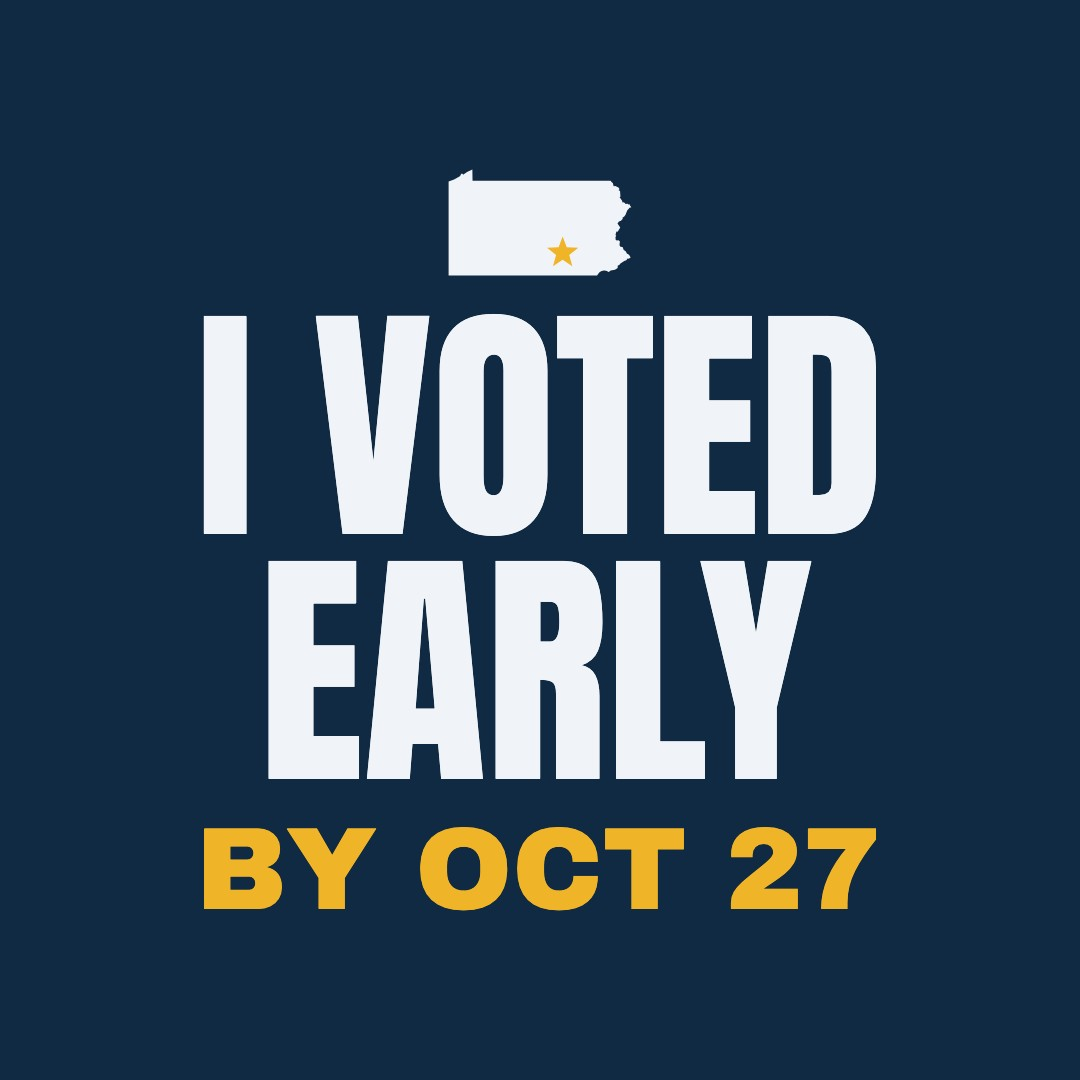
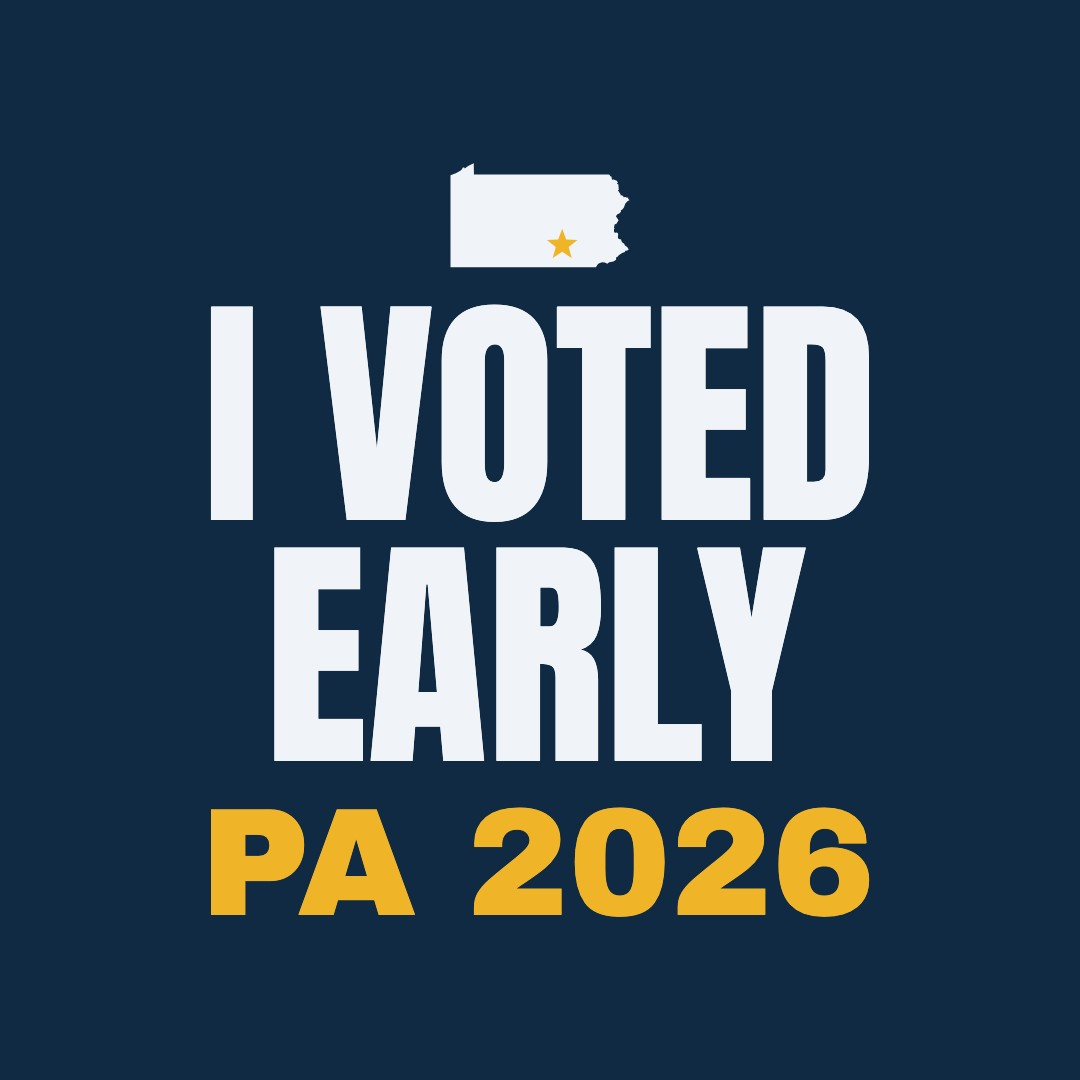
Early voting date lines say THROUGH, past-tense stickers name the state; election prep loop file
Claude-Session: https://claude.ai/code/session_01U4jJBSt3CnGjJYrtPzNn5q

Changed region(s): [[0.1833, 0.1528, 0.825, 0.8556], [0.1833, 0.275, 0.2444, 0.5194], [0.3667, 0.55, 0.3972, 0.5806]]

diff --git a/site/states.js b/site/states.js
@@ -25,11 +25,11 @@ window.VOTE_STATES = [
 	{"abbr": "FL", "name": "Florida", "status": "verified", "kind": "in-person", "start": "2026-10-24", "end": "2026-10-31", "varies": true, "note": "Every county offers October 24 to 31. Your county may add more days; check with your Supervisor of Elections.", "officialUrl": "https://dos.fl.gov/elections/for-voters/voting/early-voting-and-secure-ballot-intake-stations/", "officialLabel": "dos.fl.gov", "sourceUrl": "https://dos.fl.gov/elections/for-voters/election-dates/", "checked": "2026-10-19"},
 	{"abbr": "GA", "name": "Georgia", "status": "verified", "kind": "in-person", "start": "2026-10-13", "end": "2026-10-30", "varies": false, "officialUrl": "https://mvp.sos.ga.gov/s/", "officialLabel": "sos.ga.gov", "sourceUrl": "https://sos.ga.gov/news/georgia-debuts-new-i-voted-sticker-2026-midterm-elections", "checked": "2026-10-21", "note": "Vote at any early voting site in your county. Hours vary by site; My Voter Page lists them."},
 	{"abbr": "HI", "name": "Hawaii", "status": "verified", "kind": "mail", "start": "2026-10-16", "end": "2026-11-03", "varies": false, "note": "Ballots arrive by October 16. They must be received by 7 p.m. on Election Day, so mail early or use a drop box.", "officialUrl": "https://elections.hawaii.gov/voting/", "officialLabel": "elections.hawaii.gov", "sourceUrl": "https://elections.hawaii.gov/news-release/hawaii-voters-to-receive-general-election-ballots-by-october-16/", "checked": "2026-10-19", "ribbon": "RECEIVED BY 7 P.M. NOV 3", "dateLineMail": "BY 7 PM NOV 3"},
-	{"abbr": "ID", "name": "Idaho", "status": "verified", "kind": "in-person", "end": "2026-10-30", "varies": true, "dateLine": "BY OCT 30", "summary": "Early voting is open in every Idaho county through Friday, October 30.", "note": "Days and hours differ by county; find yours on VoteIdaho.gov.", "officialUrl": "https://voteidaho.gov/casting-your-ballot/", "officialLabel": "voteidaho.gov", "sourceUrl": "https://voteidaho.gov/casting-your-ballot/", "checked": "2026-10-19"},
+	{"abbr": "ID", "name": "Idaho", "status": "verified", "kind": "in-person", "end": "2026-10-30", "varies": true, "dateLine": "THROUGH OCT 30", "summary": "Early voting is open in every Idaho county through Friday, October 30.", "note": "Days and hours differ by county; find yours on VoteIdaho.gov.", "officialUrl": "https://voteidaho.gov/casting-your-ballot/", "officialLabel": "voteidaho.gov", "sourceUrl": "https://voteidaho.gov/casting-your-ballot/", "checked": "2026-10-19"},
 	{"abbr": "IL", "name": "Illinois", "status": "verified", "kind": "in-person", "start": "2026-09-24", "end": "2026-11-02", "varies": false, "note": "Early voting is open at your election authority's office now; more permanent sites open October 19. Your county or city election authority lists sites and hours.", "officialUrl": "https://www.elections.il.gov/", "officialLabel": "elections.il.gov", "sourceUrl": "https://www.elections.il.gov/NewDocDisplay.aspx?%2fM0cs48zOKVZyk9eAbpEoxjoGz9b5YaGE%2bEuf7JVd2Tlx2Mybp2RbacEJVh848tnFOLoTd3G4cRsCxSj%2bcrL1MmhG9QsYgJ9OQfN8tD1KknCt4vGDLyf%2beCKsyu7xmW0lAxDBpXvp%2bNIr4wjxV9GPBgF6J94lGLth4owFgdUkow%3d", "checked": "2026-10-21"},
 	{"abbr": "IN", "name": "Indiana", "status": "verified", "kind": "in-person", "start": "2026-10-06", "end": "2026-11-02", "varies": false, "note": "Vote early at your county clerk's office or a satellite site. It ends at noon Monday, November 2, and counties set days and hours.", "officialUrl": "https://www.in.gov/sos/elections/", "officialLabel": "in.gov", "sourceUrl": "https://www.in.gov/dA/a5aa6862f1/2026-Calendar-Brochure.FINAL-VERSION.pdf", "checked": "2026-10-21"},
 	{"abbr": "IA", "name": "Iowa", "status": "verified", "kind": "in-person", "start": "2026-10-14", "end": "2026-11-02", "varies": false, "note": "Vote absentee in person at your county auditor's office.", "officialUrl": "https://sos.iowa.gov/elections/auditors/auditorslist.html", "officialLabel": "sos.iowa.gov", "sourceUrl": "https://sos.iowa.gov/news-resources/secretary-pate-encourages-iowans-make-plan-vote-2026-general-election", "checked": "2026-10-19"},
-	{"abbr": "KS", "name": "Kansas", "status": "verified", "kind": "in-person", "start": "2026-10-14", "end": "2026-11-02", "varies": true, "dateLine": "BY NOV 2", "summary": "Kansas counties start early voting between October 14 and 27. It ends at noon Monday, November 2.", "note": "Check your county election office for its start date, hours, and locations.", "officialUrl": "https://sos.ks.gov/elections/advance-voting-information.html", "officialLabel": "sos.ks.gov", "sourceUrl": "https://sos.ks.gov/elections/important-election-dates.html", "checked": "2026-10-19"},
+	{"abbr": "KS", "name": "Kansas", "status": "verified", "kind": "in-person", "start": "2026-10-14", "end": "2026-11-02", "varies": true, "dateLine": "THROUGH NOV 2", "summary": "Kansas counties start early voting between October 14 and 27. It ends at noon Monday, November 2.", "note": "Check your county election office for its start date, hours, and locations.", "officialUrl": "https://sos.ks.gov/elections/advance-voting-information.html", "officialLabel": "sos.ks.gov", "sourceUrl": "https://sos.ks.gov/elections/important-election-dates.html", "checked": "2026-10-19"},
 	{"abbr": "KY", "name": "Kentucky", "status": "verified", "kind": "in-person", "start": "2026-10-29", "end": "2026-10-31", "varies": false, "note": "No-excuse early voting is Thursday to Saturday. Each county sets its hours and locations.", "officialUrl": "https://elect.ky.gov/Voters/Pages/Voting-In-Person-and-By-Mail.aspx", "officialLabel": "elect.ky.gov", "sourceUrl": "https://elect.ky.gov/Voters/Pages/Voting-In-Person-and-By-Mail.aspx", "checked": "2026-10-21"},
 	{"abbr": "LA", "name": "Louisiana", "status": "verified", "kind": "in-person", "start": "2026-10-20", "end": "2026-10-27", "varies": false, "note": "8:30 a.m. to 6 p.m., no early voting Sunday, October 25.", "officialUrl": "https://www.sos.la.gov/ElectionsAndVoting/Pages/default.aspx", "officialLabel": "sos.la.gov", "sourceUrl": "https://www.sos.la.gov/elections-voting/election-dates", "checked": "2026-10-21"},
 	{"abbr": "ME", "name": "Maine", "status": "verified", "kind": "in-person", "start": "2026-10-05", "end": "2026-10-29", "varies": false, "summary": "In Maine, you can vote an absentee ballot in person at your town or city clerk's office, for any reason, from Monday, October 5, through Thursday, October 29.", "note": "No application needed. Hours are your clerk's office hours, which each town sets.", "officialUrl": "https://www.maine.gov/sos/elections-voting/find-a-municipal-clerk-or-registrar", "officialLabel": "maine.gov", "sourceUrl": "https://www.maine.gov/sos/news/person-no-excuse-absentee-voting-underway-maine", "checked": "2026-10-23"},
@@ -47,18 +47,18 @@ window.VOTE_STATES = [
 	{"abbr": "NM", "name": "New Mexico", "status": "verified", "kind": "in-person", "start": "2026-10-06", "end": "2026-10-31", "varies": false, "note": "Early voting starts at county clerk offices. More sites open across the state on October 17.", "officialUrl": "https://www.sos.nm.gov/voting-and-elections/", "officialLabel": "sos.nm.gov", "sourceUrl": "https://www.sos.nm.gov/wp-content/uploads/2026/06/2026-Important-General-Election-Dates.pdf", "checked": "2026-10-21"},
 	{"abbr": "NY", "name": "New York", "status": "verified", "kind": "in-person", "start": "2026-10-24", "end": "2026-11-01", "varies": false, "note": "Early voting sites and hours are set by your county board of elections.", "officialUrl": "https://elections.ny.gov/early-voting", "officialLabel": "elections.ny.gov", "sourceUrl": "https://elections.ny.gov/early-voting", "checked": "2026-10-19"},
 	{"abbr": "NC", "name": "North Carolina", "status": "verified", "kind": "in-person", "start": "2026-10-15", "end": "2026-10-31", "varies": false, "note": "Early voting ends at 3 p.m. on Saturday, October 31. Vote at any early voting site in your county.", "officialUrl": "https://www.ncsbe.gov/voting/vote-early-person", "officialLabel": "ncsbe.gov", "sourceUrl": "https://www.ncsbe.gov/voting/vote-early-person", "checked": "2026-10-19"},
-	{"abbr": "ND", "name": "North Dakota", "status": "verified", "kind": "in-person", "end": "2026-11-02", "varies": true, "dateLine": "BY NOV 2", "summary": "In North Dakota, each county decides whether to offer early voting. For this election, Burleigh, Cass, Grand Forks, Morton, Stark, Stutsman and Ward counties do.", "note": "A county can open early voting up to 15 days before Election Day. The Secretary of State's precinct page lists each county's dates, sites and hours. Bring a valid ID.", "officialUrl": "https://vip.sos.nd.gov/Precincts.aspx?eid=348", "officialLabel": "vip.sos.nd.gov", "sourceUrl": "https://www.sos.nd.gov/sites/default/files/documents/news/2026-general-election-media-info-aug26.pdf", "checked": "2026-10-25"},
+	{"abbr": "ND", "name": "North Dakota", "status": "verified", "kind": "in-person", "end": "2026-11-02", "varies": true, "dateLine": "THROUGH NOV 2", "summary": "In North Dakota, each county decides whether to offer early voting. For this election, Burleigh, Cass, Grand Forks, Morton, Stark, Stutsman and Ward counties do.", "note": "A county can open early voting up to 15 days before Election Day. The Secretary of State's precinct page lists each county's dates, sites and hours. Bring a valid ID.", "officialUrl": "https://vip.sos.nd.gov/Precincts.aspx?eid=348", "officialLabel": "vip.sos.nd.gov", "sourceUrl": "https://www.sos.nd.gov/sites/default/files/documents/news/2026-general-election-media-info-aug26.pdf", "checked": "2026-10-25"},
 	{"abbr": "OH", "name": "Ohio", "status": "verified", "kind": "in-person", "start": "2026-10-06", "end": "2026-11-01", "varies": false, "note": "Vote early at your county board of elections or its early vote center. Hours are the same statewide.", "officialUrl": "https://www.ohiosos.gov/elections/voters/", "officialLabel": "ohiosos.gov", "sourceUrl": "https://www.ohiosos.gov/elections/voting-schedule-text-only", "checked": "2026-10-21"},
 	{"abbr": "OK", "name": "Oklahoma", "status": "verified", "kind": "in-person", "start": "2026-10-28", "end": "2026-10-31", "varies": false, "note": "Wednesday to Friday 8 a.m. to 6 p.m., Saturday 8 a.m. to 2 p.m., in the county where you are registered.", "officialUrl": "https://oklahoma.gov/elections/voters/early-voting.html", "officialLabel": "oklahoma.gov/elections", "sourceUrl": "https://oklahoma.gov/elections/elections-results/next-election/voter-information-calendar.html", "checked": "2026-10-21"},
 	{"abbr": "OR", "name": "Oregon", "status": "verified", "kind": "mail", "start": "2026-10-14", "end": "2026-11-03", "varies": false, "note": "Ballots go out starting October 14. Mail yours by October 27 to be safe, or use a drop box by 8 p.m. on Election Day.", "officialUrl": "https://sos.oregon.gov/elections/pages/current-election.aspx", "officialLabel": "sos.oregon.gov", "sourceUrl": "https://sos.oregon.gov/elections/pages/current-election.aspx", "checked": "2026-10-19", "ribbon": "DROP BOX BY 8 P.M. NOV 3", "dateLineMail": "BY 8 PM NOV 3"},
-	{"abbr": "PA", "name": "Pennsylvania", "status": "verified", "kind": "in-person", "end": "2026-10-27", "varies": true, "dateLine": "BY OCT 27", "summary": "In Pennsylvania you can request, fill out, and return a mail ballot in one visit to your county election office until 5 p.m. Tuesday, October 27.", "note": "This in-person mail ballot is how Pennsylvania voters vote early.", "officialUrl": "https://www.pa.gov/agencies/vote/voter-support/mail-in-and-absentee-ballot/mail-ballot-before-election-day", "officialLabel": "pa.gov", "sourceUrl": "https://www.pa.gov/agencies/vote/voter-support/mail-in-and-absentee-ballot/mail-ballot-before-election-day", "checked": "2026-10-19"},
+	{"abbr": "PA", "name": "Pennsylvania", "status": "verified", "kind": "in-person", "end": "2026-10-27", "varies": true, "dateLine": "THROUGH OCT 27", "summary": "In Pennsylvania you can request, fill out, and return a mail ballot in one visit to your county election office until 5 p.m. Tuesday, October 27.", "note": "This in-person mail ballot is how Pennsylvania voters vote early.", "officialUrl": "https://www.pa.gov/agencies/vote/voter-support/mail-in-and-absentee-ballot/mail-ballot-before-election-day", "officialLabel": "pa.gov", "sourceUrl": "https://www.pa.gov/agencies/vote/voter-support/mail-in-and-absentee-ballot/mail-ballot-before-election-day", "checked": "2026-10-19"},
 	{"abbr": "RI", "name": "Rhode Island", "status": "verified", "kind": "in-person", "start": "2026-10-14", "end": "2026-11-02", "varies": false, "note": "Vote at your city or town hall, or a designated location, during regular business hours.", "officialUrl": "https://vote.sos.ri.gov/Voter/PersonVotingPage", "officialLabel": "vote.sos.ri.gov", "sourceUrl": "https://vote.sos.ri.gov/Voter/PersonVotingPage", "checked": "2026-10-19"},
 	{"abbr": "SC", "name": "South Carolina", "status": "verified", "kind": "in-person", "start": "2026-10-19", "end": "2026-10-31", "varies": false, "note": "8:30 a.m. to 6 p.m., Monday to Saturday; closed Sunday, October 25. Vote at any early voting center in your county.", "officialUrl": "https://scvotes.gov/voters/early-voting/", "officialLabel": "scvotes.gov", "sourceUrl": "https://scvotes.gov/voters/early-voting/", "checked": "2026-10-23"},
 	{"abbr": "SD", "name": "South Dakota", "status": "verified", "kind": "in-person", "start": "2026-09-18", "end": "2026-11-02", "varies": false, "summary": "In South Dakota, any registered voter can vote an absentee ballot in person at the county auditor's office, from Friday, September 18, through Monday, November 2.", "note": "On November 2, the office is open until 5 p.m. or its regular closing time, whichever is later.", "officialUrl": "https://sdsos.gov/elections-voting/voting/absentee-voting.aspx", "officialLabel": "sdsos.gov", "sourceUrl": "https://sdsos.gov/elections-voting/upcoming-elections/general-information/2026%20Election%20Information/2026%20Election%20Assets/Election%20Information/updated2026electioncalendar.pdf", "checked": "2026-10-23"},
 	{"abbr": "TN", "name": "Tennessee", "status": "verified", "kind": "in-person", "start": "2026-10-14", "end": "2026-10-29", "varies": false, "note": "Each county sets its early voting sites and hours. Check your county election commission.", "officialUrl": "https://sos.tn.gov/govotetn", "officialLabel": "sos.tn.gov", "sourceUrl": "https://sos.tn.gov/elections/calendar", "checked": "2026-10-21"},
 	{"abbr": "TX", "name": "Texas", "status": "verified", "kind": "in-person", "start": "2026-10-19", "end": "2026-10-30", "varies": false, "officialUrl": "https://www.votetexas.gov/voting/where.html", "officialLabel": "votetexas.gov", "sourceUrl": "https://www.sos.state.tx.us/elections/voter/important-election-dates.shtml", "checked": "2026-10-19", "note": "Vote at any early voting location in the county where you are registered."},
 	{"abbr": "UT", "name": "Utah", "status": "verified", "kind": "in-person", "start": "2026-10-20", "end": "2026-10-30", "varies": false, "note": "Every county holds early voting; times and locations vary, and a county can extend it through Monday, November 2. Utah also mails every voter a ballot.", "officialUrl": "https://vote.utah.gov/", "officialLabel": "vote.utah.gov", "sourceUrl": "https://vote.utah.gov/wp-content/uploads/2026/01/2026-Candidate-Manual.pdf", "checked": "2026-10-23"},
-	{"abbr": "VT", "name": "Vermont", "status": "verified", "kind": "in-person", "end": "2026-11-02", "varies": true, "dateLine": "BY NOV 2", "summary": "In Vermont, you can vote early at your town or city clerk's office during business hours, until the office closes on Monday, November 2.", "note": "Early voting started 45 days before the election, or as soon as your town had ballots.", "officialUrl": "https://sos.vermont.gov/elections/voters/early-absentee-voting", "officialLabel": "sos.vermont.gov", "sourceUrl": "https://sos.vermont.gov/elections/voters/early-absentee-voting", "checked": "2026-10-23"},
+	{"abbr": "VT", "name": "Vermont", "status": "verified", "kind": "in-person", "end": "2026-11-02", "varies": true, "dateLine": "THROUGH NOV 2", "summary": "In Vermont, you can vote early at your town or city clerk's office during business hours, until the office closes on Monday, November 2.", "note": "Early voting started 45 days before the election, or as soon as your town had ballots.", "officialUrl": "https://sos.vermont.gov/elections/voters/early-absentee-voting", "officialLabel": "sos.vermont.gov", "sourceUrl": "https://sos.vermont.gov/elections/voters/early-absentee-voting", "checked": "2026-10-23"},
 	{"abbr": "VA", "name": "Virginia", "status": "verified", "kind": "in-person", "start": "2026-09-18", "end": "2026-10-31", "varies": false, "note": "Every locality offers early voting. Vote in the locality where you are registered.", "officialUrl": "https://www.elections.virginia.gov/casting-a-ballot/early-voting-office-locations/", "officialLabel": "elections.virginia.gov", "sourceUrl": "https://www.elections.virginia.gov/casting-a-ballot/early-voting-office-locations/", "checked": "2026-10-19"},
 	{"abbr": "WA", "name": "Washington", "status": "verified", "kind": "mail", "start": "2026-10-16", "end": "2026-11-03", "varies": false, "note": "Ballots were mailed by October 16. Return yours by 8 p.m. on Election Day, by mail or drop box.", "officialUrl": "https://www.sos.wa.gov/elections/voters", "officialLabel": "sos.wa.gov", "sourceUrl": "https://www.sos.wa.gov/about-office/news/2026/november-general-election-ballots-mailed-all-eligible-voters-oct-16", "checked": "2026-10-19", "ribbon": "DROP BOX BY 8 P.M. NOV 3", "dateLineMail": "BY 8 PM NOV 3"},
 	{"abbr": "WV", "name": "West Virginia", "status": "verified", "kind": "in-person", "start": "2026-10-21", "end": "2026-10-31", "varies": false, "note": "Vote early at the county courthouse, an annex or a community voting location during business hours, and 9 a.m. to 5 p.m. on the last two Saturdays.", "officialUrl": "https://sos.wv.gov/govotewv", "officialLabel": "sos.wv.gov", "sourceUrl": "https://sos.wv.gov/early-voting-locations", "checked": "2026-10-21"},

diff --git a/site/app.js b/site/app.js
@@ -123,7 +123,7 @@
 		ivoted: { label: 'I voted', lines: ['I VOTED'], stateLine: true },
 		mailed: { mail: true, label: 'I voted by mail', lines: ['I VOTED', 'BY MAIL'], stateLine: true },
 		ballotin: { mail: true, label: 'My ballot is in', lines: ['MY BALLOT', 'IS IN'], stateLine: true },
-		voted: { early: true, label: 'I voted early', lines: ['I VOTED', 'EARLY'] },
+		voted: { early: true, past: true, label: 'I voted early', lines: ['I VOTED', 'EARLY'] },
 		// Spanish (October 19): tú, per the project glossary (docs/spanish-style.md); "Ya voté" is the
 		// everyday Mexican phrasing for "I voted". Date bars
 		// put the day first ("19–30 OCT", "HASTA EL 27 OCT").
@@ -131,7 +131,7 @@
 		votacorreo: { mail: true, es: true, label: 'Vota por correo (español)', lines: ['VOTA', 'POR CORREO'] },
 		vota3nov: { dated: true, es: true, label: 'Vota 3 de nov (español)', lines: ['VOTA', '3 DE NOV'] },
 		yavote: { es: true, label: 'Ya voté (español)', lines: ['YA VOTÉ'], stateLine: true },
-		yavotetemprano: { early: true, es: true, label: 'Ya voté temprano (español)', lines: ['YA VOTÉ', 'TEMPRANO'] },
+		yavotetemprano: { early: true, past: true, es: true, label: 'Ya voté temprano (español)', lines: ['YA VOTÉ', 'TEMPRANO'] },
 		yavotecorreo: { mail: true, es: true, label: 'Ya voté por correo (español)', lines: ['YA VOTÉ', 'POR CORREO'], stateLine: true },
 		voyavotar: { es: true, label: 'Voy a votar (español)', lines: ['VOY A', 'VOTAR'], stateLine: true },
 	};
@@ -209,10 +209,13 @@
 	// date (VOTE NOV 3) gets ELECTION DAY under it.
 	function defaultDateLine(st, headline) {
 		var hd = headline && HEADLINES[headline];
-		if (hd && hd.es && !hd.stateLine) { return spanishDateLine(st, hd); }
+		// "I voted early, through Oct 27" doesn't read: past-tense messages name the state when the state's date
+		// is only a deadline (PA, KS; October 25).
+		var stateLine = hd && (hd.stateLine || (hd.past && /^THROUGH /.test(st.dateLine || '')));
+		if (hd && hd.es && !stateLine) { return spanishDateLine(st, hd); }
 		if (hd && hd.dated) { return 'ELECTION DAY'; }
 		// Short enough to read in a thumbnail: the name up to 10 letters, else the postal code (NC 2026).
-		if (headline && HEADLINES[headline] && HEADLINES[headline].stateLine) { var nm = HEADLINES[headline].es ? nameOf(st) : st.name; return (nm.length <= 10 ? nm.toUpperCase() : st.abbr) + ' ' + ELECTION.day.slice(0, 4); }
+		if (stateLine) { var nm = hd.es ? nameOf(st) : st.name; return (nm.length <= 10 ? nm.toUpperCase() : st.abbr) + ' ' + ELECTION.day.slice(0, 4); }
 		if (!hasEarly(st)) { return electionLine(); }
 		if (st.dateLine) { return st.dateLine; }
 		if (st.kind === 'mail') { return st.dateLineMail || 'DUE ' + shortDate(day(st.end)); }
@@ -226,7 +229,7 @@
 	function spanishDateLine(st, hd) {
 		if (hd.dated || !hasEarly(st)) { return 'DÍA DE LAS ELECCIONES'; }
 		if (st.kind === 'mail') { return 'HASTA EL ' + day(st.end).getDate() + ' ' + mes(day(st.end)); }
-		var by = /^BY ([A-Z]{3}) (\d+)$/.exec(st.dateLine || '');
+		var by = /^THROUGH ([A-Z]{3}) (\d+)$/.exec(st.dateLine || '');
 		if (by) { return 'HASTA EL ' + by[2] + ' ' + (MESES[by[1]] || by[1]); }
 		if (!st.start || !st.end) { return 'DÍA DE LAS ELECCIONES'; }
 		var a = day(st.start), b = day(st.end);

diff --git a/docs/LOOP-election-prep.md b/docs/LOOP-election-prep.md
@@ -1,0 +1,60 @@
+# Loop: Election Week and After
+
+Started October 25, 2026, at Garrett's request: prepare for November 2, November 4 and the months
+after, then keep working the backlog in order of value to visitors. One item per pass. Log each pass
+at the bottom with the date, what changed, and what's next.
+
+**Goal of every item:** a voter who lands on a page gets something true and useful for that day:
+the right sticker, the right dates, the official link. Nothing expired, nothing invented.
+
+**Rules for the loop**
+- Push to main two or three times a day at most; a push is a deploy at the next build (or now, with
+  `wrangler pages deploy`). Run facts, SEO, Spanish (`--base` local), card and event QA first.
+- Facts only from official sources; anything uncertain stays off the page and goes to Open Fact Calls.
+- No DNS or Cloudflare changes, social posts or outreach without Garrett's OK.
+- No Firecrawl; use WebSearch, WebFetch or Claude in Chrome.
+- Spanish strings follow `docs/spanish-style.md`.
+
+## Before November 2
+
+| # | Item | Status |
+|---|---|---|
+| 1 | PA and KS "I voted early" stickers: replace the "BY" date line with the state name | Done Oct 25 |
+| 2 | Previews of the Nov 2 and Nov 4 builds (TX, WA, KS, Spanish home) sent to Garrett | |
+| 3 | Post-election checklist (`docs/post-election-release.md`) checked against the build; build what's missing (post-election home FAQ) | |
+| 4 | "Build and QA, no deploy" input on the daily workflow, so the Nov 4 run can be tested once ahead | |
+| 5 | "First time voter" message in the maker (English and Spanish) | |
+| 6 | Ballot trackers: confirm IN; look for IL, MO, WY | |
+| 7 | Open fact calls that touch the Nov 2 banner (NJ, MI, KS, VT, WY, MT) | |
+| 8 | Mail-state ribbon and date line field (WA "BY 8 P.M. NOV 3") | |
+
+## Dated Checks
+
+| Date | Check |
+|---|---|
+| Daily Oct 26 to Nov 1 | After the 6:05 a.m. build (5:05 from Nov 2): states whose early voting ended show the ended title, gallery and share image live; IndexNow for changed pages |
+| Oct 29 | First impact look: Search Console impressions for the 21 pages updated Oct 24, from each page's recrawl date |
+| Nov 1 (Sunday) | Index snapshot, `archive_search.py --index` |
+| Nov 2 | Banner live: hours, lookups, mail return lines; the 15 states still voting early that day keep their early-voting lines |
+| Nov 4 | 06:30 UTC run deployed post-election mode; spot-check EN and ES; rerun from Actions with `2026-11-04` if not |
+| Nov 5 | Remove the `30 6 4 11 *` cron; log the release in `docs/change-log.csv` |
+
+## After the Election
+
+| # | Item | Status |
+|---|---|---|
+| 9 | Between-elections mode built behind a phase flag, ready for the Dec 1 review | |
+| 10 | Sticker collection and 2026 archive (`docs/sticker-archive-spec.md`): data first | |
+| 11 | Descriptive image filenames with 301s from the old URLs | |
+| 12 | Snohomish County as a second Washington sticker source | |
+| 13 | Privacy and accessibility section on About | |
+
+## Log
+
+- **Oct 25:** Loop started.
+- **Oct 25, item 1:** Early-voting deadline lines changed from "BY OCT 27" to "THROUGH OCT 27" (ID, KS, ND, PA, VT). Official
+  English pages say "through" for the last day of a window (NY State "October 24 through November 1"; Lake County, IL "run
+  through Monday, November 2"; pa.gov "all in one visit through Oct. 27"); "by" reads as a deadline. Spanish keeps "HASTA EL
+  27 OCT", which Lake County's Spanish page uses ("hasta el lunes, 2 de noviembre"). Past-tense messages (I voted early, Ya
+  voté temprano) show the state name and year instead of a deadline. Postal codes in alt text keep capitals (PA 2026).
+  Hand-made "Vote early, by Oct 27" pictures stay; the gallery hides them once early voting ends.
